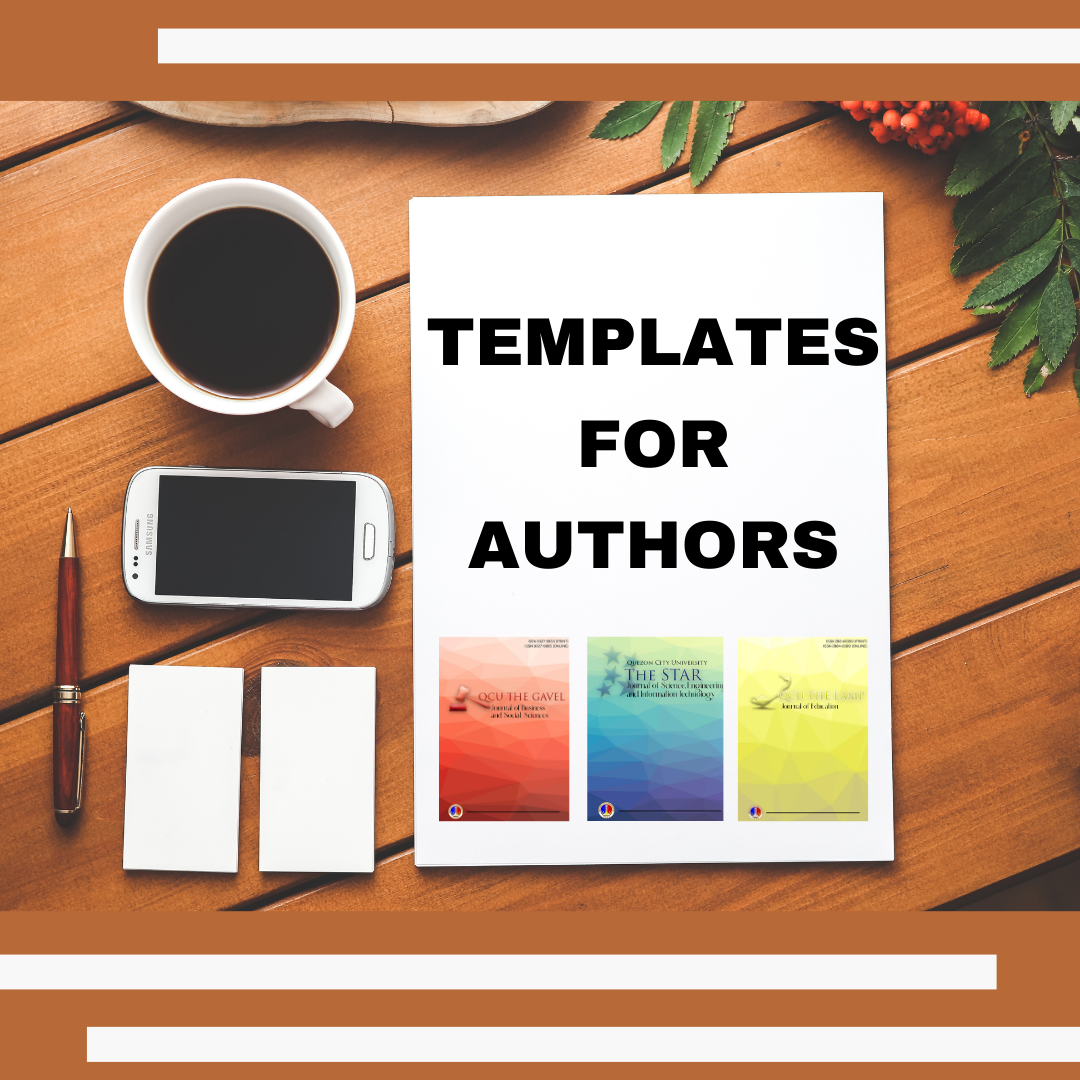
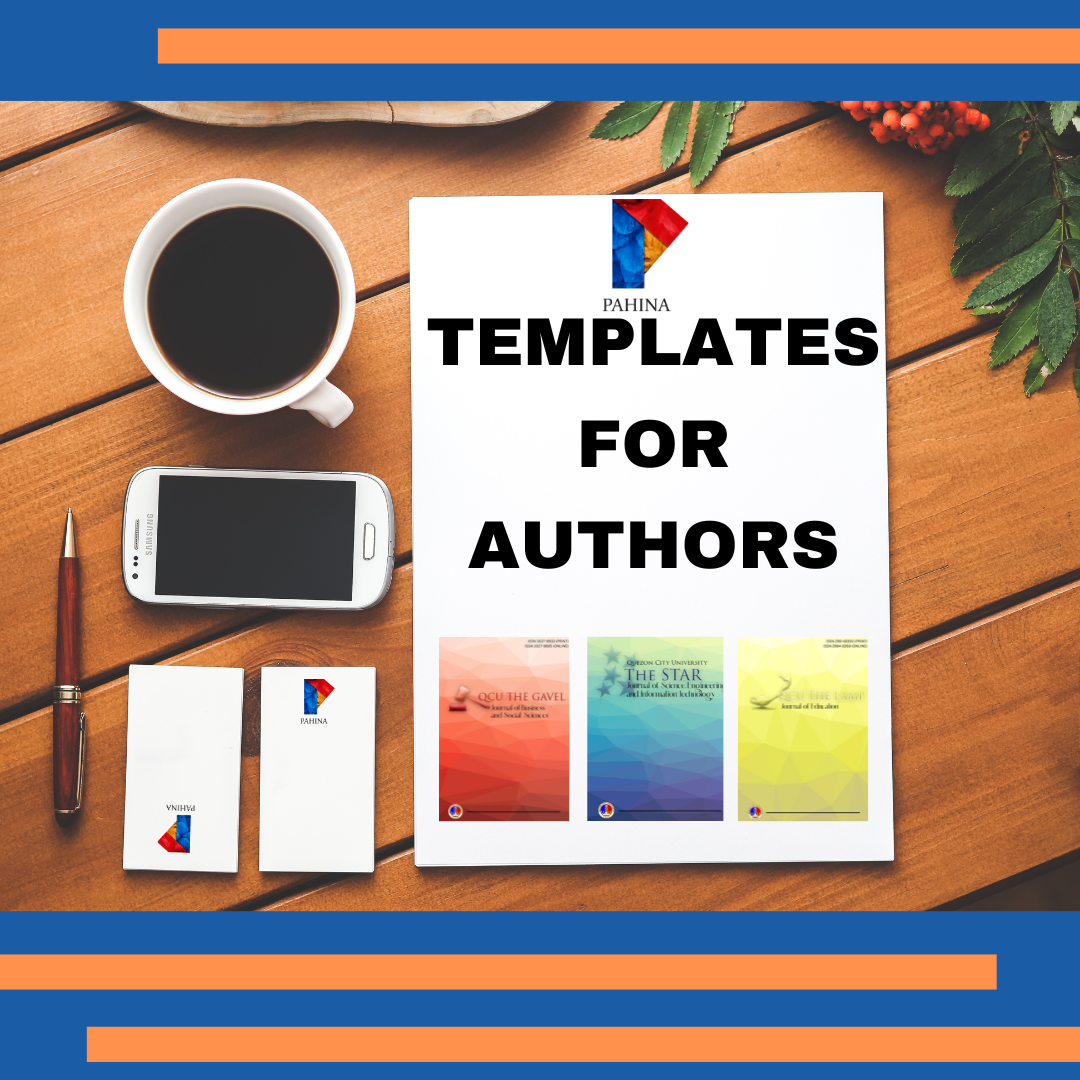
feat: change images for guidelines, add animation for about and guidelines

diff --git a/JS/animate.js b/JS/animate.js
@@ -50,7 +50,7 @@ $(function() {
     clearTimeout(debounceTimeout);
     debounceTimeout = setTimeout(function() {
       detection();
-    }, 50); // Adjust debounce timeout as needed
+    }, 50); 
   }
 
   w.on("scroll", handleScroll);
@@ -62,13 +62,13 @@ $(function() {
   function throttleResize(callback) {
     var resizeTimeout;
     clearTimeout(resizeTimeout);
-    resizeTimeout = setTimeout(callback, 100); // Adjust throttle timeout as needed
+    resizeTimeout = setTimeout(callback, 80); 
   }
 
   $(document).ready(function() {
     setTimeout(function() {
       detection();
-    }, 1500);
+    }, 1000);
 
     $("[data-animate-in], [data-detect-viewport]").each(function() {
       var d = $(this).data("animate-in-delay") || 0;

diff --git a/CSS/faqs.css b/CSS/faqs.css
@@ -31,9 +31,9 @@
 }
 .banner img {
     width: 100%;
-    max-width: 700px;
-    height:80vh;
-    max-height:680px;
+    max-width: 500px;
+    height:auto;
+    /* max-height:680px; */
     object-fit: cover;
 }
 .banner .body {
@@ -569,7 +569,7 @@ table th, table td {
     }
     .banner img {
         width: 100%;
-        height: 50vh;
+        height: auto;
     }
     .s-1, .s-2 {
         padding: 1em;

diff --git a/CSS/header.css b/CSS/header.css
@@ -93,7 +93,7 @@ h2 {
 
 [data-animate-in] {
     opacity: 0;
-    transition: transform 0.8s ease, opacity 0.8s ease
+    transition: transform 0.7s ease, opacity 0.7s ease
 }
 
 [data-animate-in="up"] {

diff --git a/PHP/guidelines.php b/PHP/guidelines.php
@@ -45,7 +45,7 @@ $author_id = isset($_SESSION['id']) ? $_SESSION['id'] : 0;
                 <span class="last">Read more about our author guidelines</button>
             </div>
         </div>
-        <img width="40%" src="../images/resources/Web Design On Computer Royalty-Free Stock Photo.jpg">
+        <img width="40%" src="../images/resources/1.png">
     </div>
     <div class="banner" id="article-submission-banner"  style="display: none;">
             <div class="content">
@@ -56,7 +56,7 @@ $author_id = isset($_SESSION['id']) ? $_SESSION['id'] : 0;
                     <span class="last">Read more about article submission</span>
                 </div>
             </div>
-            <img width="40%" src="../images/resources/submit.png">
+            <img width="40%" src="../images/resources/2.png">
     </div>
     <div class="banner" id="peer-review-process-banner" style="display: none;">
             <div class="content">
@@ -67,7 +67,7 @@ $author_id = isset($_SESSION['id']) ? $_SESSION['id'] : 0;
                     <span class="last">Read more about our Peer Review Process</button>
                 </div>
             </div>
-            <img width="40%" src="https://images.ctfassets.net/o78em1y1w4i4/1vcXhQnayIcmJ3eohoVpY2/1cf9432e053c5af60f170280daedefc4/story-male-manager-taking-notes-in-home-office.jpg?fm=webp&w=1080&q=75">
+            <img width="40%" src="../images/resources/3.png">
     </div>
     <div class="banner" id="become-a-reviewer-banner" style="display: none;">
             <div class="content">
@@ -78,7 +78,7 @@ $author_id = isset($_SESSION['id']) ? $_SESSION['id'] : 0;
                     <span class="last">Read more about becoming a reviewer</button>
                 </div>
             </div>
-            <img width="40%" src="https://images.ctfassets.net/o78em1y1w4i4/1vcXhQnayIcmJ3eohoVpY2/1cf9432e053c5af60f170280daedefc4/story-male-manager-taking-notes-in-home-office.jpg?fm=webp&w=1080&q=75">
+            <img width="40%" src="../images/resources/6.png">
     </div>
     <div class="banner" id="templates-for-author-banner" style="display: none;">
             <div class="content">
@@ -89,7 +89,7 @@ $author_id = isset($_SESSION['id']) ? $_SESSION['id'] : 0;
                     <span class="last">View and download our templates</button>
                 </div>
             </div>
-            <img width="40%" src="../images/resources/435535444_1614341379393611_1210178581707210205_n.png">
+            <img width="40%" src="../images/resources/4.png">
     </div>
     <div class="banner" id="publication-policy-banner" style="display: none;">
             <div class="content">
@@ -100,7 +100,7 @@ $author_id = isset($_SESSION['id']) ? $_SESSION['id'] : 0;
                     <span class="last">Read our Publication Policies</button>
                 </div>
             </div>
-            <img width="40%" src="../images/resources/pexels-pixabay-357514.jpg">
+            <img width="40%" src="../images/resources/5.png">
     </div>
 <!-- End of banners -->
     <main class="d-flex flex-column-reverse flex-md-row-reverse gap-2">
@@ -152,8 +152,7 @@ $author_id = isset($_SESSION['id']) ? $_SESSION['id'] : 0;
                 </ul>
                 <hr/>
                 <ul id="for-contributors" >
-                    <li><b>Browse Pahina Resources</b></li>
-                    <li>Guidelines</li>
+                    <a href="guidelines.php"><li><b>Browse Pahina Resources</b></li></a>
                     <li class="faq-toggle" data-target="author-guidelines"><a href="guidelines.php#author-guidelines">Author Guidelines</a></li>
                     <li class="faq-toggle" data-target="templates-for-author"><a href="guidelines.php#templates-for-author">Templates for Author</a></li>
                     <li class="faq-toggle" data-target="publication-policy"><a href="guidelines.php#publication-policy">Publication Policy</a></li>
@@ -162,11 +161,12 @@ $author_id = isset($_SESSION['id']) ? $_SESSION['id'] : 0;
                     <li class="faq-toggle" data-target="become-a-reviewer"><a href="guidelines.php#become-a-reviewer">Become A Reviewer</a></li>
                     <br/>
     
-                    <li>Tutorials</li>
+                    <a href="tutorials.php"><li><b>Browse Tutorials</b></li></a>
                     <li class="faq-toggle"><a href="tutorials.php#tutorial-on-publication">Tutorial on Publication</a></li>
                     <li class="faq-toggle"><a href="tutorials.php#tutorial-on-review">Tutorial on Review</a></li>
+                    <li class="faq-toggle"><a href="tutorials.php#tutorial-on-registration">How to be a Contributor</a></li>
                     <br/>
-                    <a href="faqs.php"><li class="faq-toggle" data-target="frequently-asked-questions">FAQs</li></a>
+                    <a href="faqs.php"><li class="faq-toggle" data-target="frequently-asked-questions"><b>Browse FAQs</b></li></a>
                 </ul>
             </div>           
         </aside>

diff --git a/PHP/general-info.php b/PHP/general-info.php
@@ -22,41 +22,11 @@
 
 <nav class="navigation-menus-container" id="navigation-menus-container">
 </nav>
-
-<div class="main-content" id="home">
-    <div class="content-over">
-        <div class="cover-content">
-            <p>Home / About Us / General Information</p>
-            <h2>About Us</h2>
-        </div>
-    </div> 
-    
-    <div class="container-fluid second-container d-none">
-        <div class="row">
-            <div class="col-md-1"><!------ blank space -------></div>
-
-            <div class="col-md-11 head-text">
-                <div class="container-fluid row">
-                    <div class="col-md-5 col-12">
-                        <h2 class="mt-4" style="color:#F4900C" >We Think, We Research, We Write:</h2>
-                        <h4 style="color:#FFFFFF" >Building Knowledge, Uniting Minds!</h4>
-                        <hr style="height: 5px; background-color: #F4900C; width: 87%">
-                    </div>
-                        
-                    <p style="text-align: justify;" >Explore, collaborate, and build knowledge together at QCU's Open Access Journal. Join us in uniting minds through research and writing, shaping a vibrant academic community.</p>
-                </div>
-            </div>
-        </div>
-    </div>
-</div>
-
-
-<section>
-<h3>OUR STORY</h3>
+<section class="d-flex flex-column gap-5">
+    <img src="../images/who.png"/>
+    <h3>OUR STORY</h3>
 </section>
-
 <div class="container-fluid">
-
     <div class="row mt-4">
         <div class="col-md-1"> <!------ blank space -------> </div>
 
@@ -86,7 +56,7 @@
         </div>
 
 
-        <div class="col-md-5">
+        <div data-animate-in="up" class="col-md-5">
             <div id="carouselId" class="carousel slide" data-bs-ride="carousel">
                 <ol class="carousel-indicators">
                     <li
@@ -158,7 +128,7 @@
        <h3  >EXECUTIVE OFFICIALS</h3>
     </section>
 
-    <section class="d-flex justify-content-center flex-wrap gap-3">
+    <section data-animate-in="up" class="d-flex justify-content-center flex-wrap gap-3">
 
             <div class="executives-content">
                 <img src="../images/principal.png" alt="" class="img-fluid">
@@ -187,7 +157,7 @@
             <h2 >PUBLICATION UNIT TEAM</h2>
     </section>
 
-    <section class="d-flex flex-wrap justify-content-center gap-3">
+    <section data-animate-in="up" class="d-flex flex-wrap justify-content-center gap-3">
             <div class="uniteam-content">
                 <img src="../images/Head-Publication.jpg" alt="" class="img-fluid">
                 <p class="mt-2">Candice Erika J. Rudi</p>
@@ -225,7 +195,9 @@
 <script src="https://cdnjs.cloudflare.com/ajax/libs/sweetalert/2.1.2/sweetalert.min.js"></script>
 <script src="../JS/reusable-header.js"></script>
 <script src="https://ajax.googleapis.com/ajax/libs/jquery/3.7.1/jquery.min.js"></script>
+<script src="../JS/animate.js"></script>
 <script>
+//  todo: make this code reusable
 function includeNavbar() {
   fetch('../PHP/navbar.php')
     .then(response => response.text())
